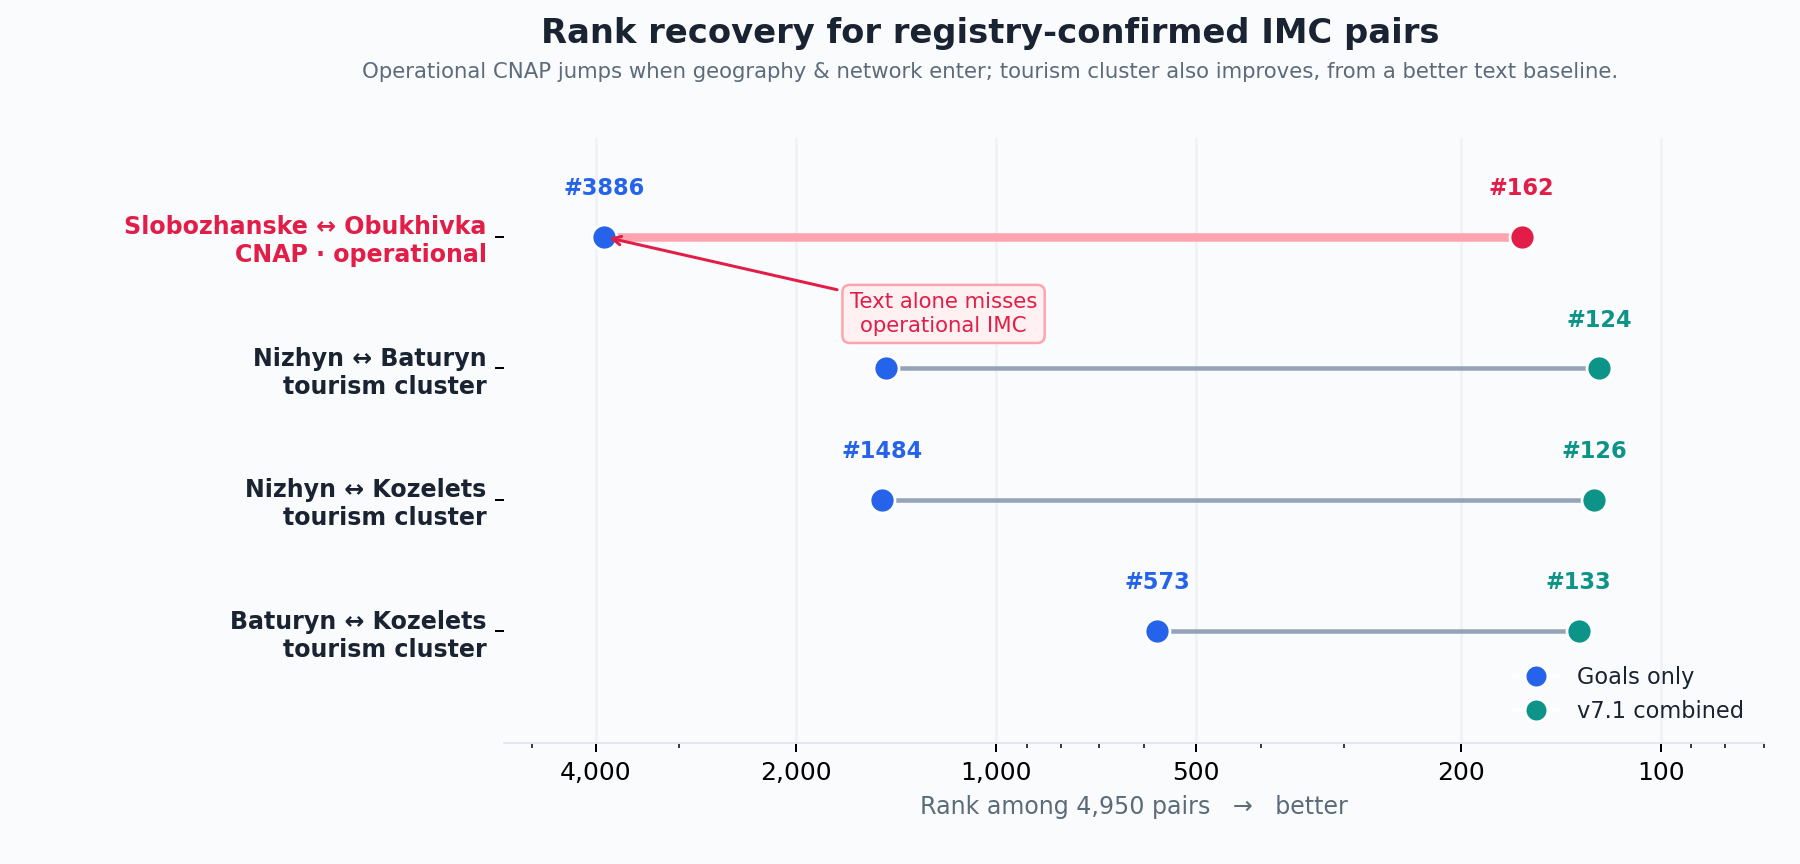
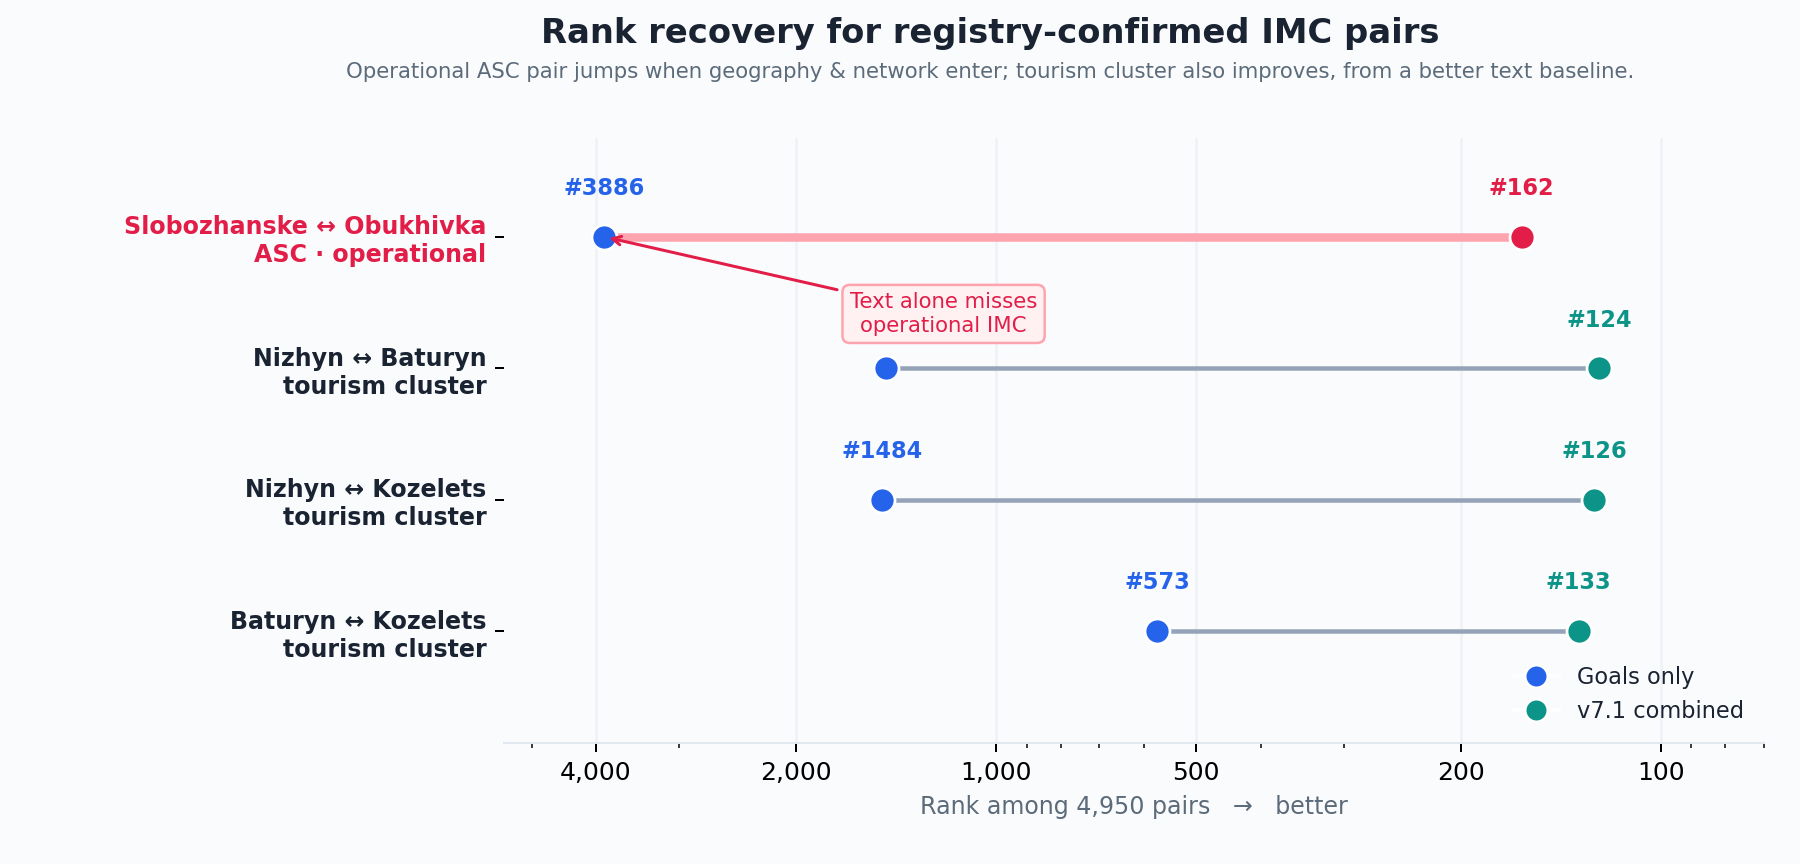
Align AIM-CC primary reply window to 21 days and refresh poster figures.

Changed region(s): [[0.1867, 0.0625, 0.9022, 0.0938], [0.1244, 0.2812, 0.28, 0.3125]]

diff --git a/internal/aim-cc-poster-copy.md b/internal/aim-cc-poster-copy.md
@@ -92,7 +92,7 @@ Partner discovery remains mostly **relational** (head-to-head contact, associati
 
 On **100** Goals-ready municipalities we rank **4,950** pairs (tracks: **455** thematic · **150** operational · **4,345** mixed). The product unit is an **IMC package hypothesis** (theme · form) plus 1–3 discovery-signal chips — not the blended score alone.
 
-**Known-pair recovery (curated N=12).** Operational CNAP **Slobozhanske↔Obukhivka**: goals-only **#3886** → v7.1 **#162** (package *ASC — delegation*). Tourism triangle **Nizhyn–Kozelets–Baturyn** recovers to ~**#124–#133** (curated *tourism — joint project*). Several newer registry-checked pairs land in the top ranks (e.g. Verkhovyna–Kuty **#1**, Halych–Dubivtsi **#2** on the Dniester Canyon tourism agreement #721). Absolute ranks shift as the edge set grows; the relative finding holds: geo/network recover operational deals that pure goals miss.
+**Known-pair recovery (curated N=12).** Operational ASC **Slobozhanske↔Obukhivka**: goals-only **#3886** → v7.1 **#162** (package *ASC — delegation*). Tourism triangle **Nizhyn–Kozelets–Baturyn** recovers to ~**#124–#133** (curated *tourism — joint project*). Several newer registry-checked pairs land in the top ranks (e.g. Verkhovyna–Kuty **#1**, Halych–Dubivtsi **#2** on the Dniester Canyon tourism agreement #721). Absolute ranks shift as the edge set grows; the relative finding holds: geo/network recover operational deals that pure goals miss.
 
 **Validation coverage.** Growing Goals into IMC-network hubs lifted IMC∩Goals from ~**10** to **246** pairs with strategy text on both sides; curated hard labels grew **4 → 12**.
 
@@ -110,7 +110,7 @@ On **100** Goals-ready municipalities we rank **4,950** pairs (tracks: **455** t
 
 **Theory / context.** OECD IMC ladders + Hooghe & Marks Type II networks; sticky/fragile heads under frozen elections.
 
-**Next — prospective test (draft prereg).** Arms: thematic vs operational vs control; treatment = **agreement package** recommendation. Primary: reply ≤14 days. Sampling frame (2026-08): **~100** Goals · **455** thematic · **150** operational — see `internal/aim-cc-field-experiment-prereg.md`.
+**Next — prospective experiment (draft prereg).** Arms: thematic vs operational vs control; treatment = **agreement package** recommendation. Primary: reply ≤21 days. Sampling frame (2026-08): **~100** Goals · **455** thematic · **150** operational — see `internal/aim-cc-field-experiment-prereg.md`.
 
 **Ask for mentors.** With IMC∩Goals in the hundreds and curated known at 12, how to move from recovery diagnostics to confirmatory validation / labelling? Design and ethics for cold outreach to municipalities? Active learning on institutional texts?
 
@@ -118,11 +118,13 @@ On **100** Goals-ready municipalities we rank **4,950** pairs (tracks: **455** t
 
 ## Conclusion
 
-Corpus methods can rank **IMC agreement hypotheses** and recover known clusters when geography/network enter; a single blended score must not be sold as “strategy match.” Product framing: **candidate agreement (theme · form)** justified by discovery signals. Corpus growth into the registry graph is as important as scoring tweaks.
+Partner search remains the hard step of Ukrainian IMC; strategies, geography, and the registered partnership network are usable **discovery signals**, not a substitute for trust between heads. Combining goal NLP with geo/network **recovers** registry-confirmed pairs that text alone misses — especially **operational** service sharing (e.g. shared ASC) — while text remains stronger for **thematic** clusters. The right product unit is an **agreement-package hypothesis** (who · about what · which legal form) backed by 1–3 signal chips, not a single blended “compatibility” score.
 
-**Next steps.** Keep growing PIN-neighbour Goals; field-test package recommendations; keep overlays separate in stakeholder tools.
+Growing Goals into IMC-network hubs mattered as much as formula tweaks: IMC∩Goals rose ~10→246; curated known labels now N=12. The pilot also ships an **open release** (CC BY 4.0) and a stakeholder map/interface so candidates can be inspected, not only ranked. Limits remain real: sparse national strategy coverage, template-text collisions, and partial circularity when network enters the score.
 
-**Data & code.** CC BY 4.0 releases + MIT pipeline · KATOTTG join · complements KSE Loc-Data-Hub · site: https://maxsemenchuk.github.io/hromada-strategy-collab/?lang=en
+**Next.** Pre-register and run a small field experiment: do package recommendations raise contact rates vs geo-only / control? Longer term: motivation-conditioned (agent-centric) recommendations per municipality, and clearer validation of package plausibility — not only rank recovery.
+
+**Data & code.** MIT pipeline · KATOTTG join with KSE Loc-Data-Hub · https://maxsemenchuk.github.io/hromada-strategy-collab/?lang=en
 
 ---
 

diff --git a/internal/aim-cc-field-experiment-prereg.md b/internal/aim-cc-field-experiment-prereg.md
@@ -4,7 +4,7 @@
 **Status:** Draft for AIM-CC 2026 consultation (not locked). Comments welcome before freeze.  
 **Contact:** Max Semenchuk · max.semenchuk@gmail.com · W3I Civic Tech Lab pilot  
 **Repo / data:** https://github.com/MaxSemenchuk/hromada-strategy-collab · CC BY 4.0 releases  
-**Date:** 2026-07-30 · **Version:** 0.2 (sampling frame refreshed 2026-08-04)
+**Date:** 2026-07-30 · **Version:** 0.3 (primary reply window → 21 days, 2026-08-04)
 
 ---
 
@@ -45,14 +45,14 @@ This is an **underpowered** pilot for small effects; primary goal is **feasibili
 
 ## 5. Intervention (identical logistics across arms)
 
-1. **Message (UA):** short email/Telegram — hypothesis language, not “AI matched you as perfect partners.” Include: (a) 2–3 quoted goal fragments motivating the pair, (b) one concrete joint-project sketch, (c) ask for 30-min intro call within 14 days.  
-2. **Timing:** send to both sides same day; one reminder at day 7 if no reply.  
+1. **Message (UA):** short email/Telegram — hypothesis language, not “AI matched you as perfect partners.” Include: (a) 2–3 quoted goal fragments motivating the pair, (b) one concrete joint-project sketch, (c) ask for 30-min intro call within 21 days.  
+2. **Timing:** send to both sides same day; one reminder at day 10 if no reply.  
 3. **Facilitation:** optional W3I-hosted call; same script checklist for all arms.  
 4. **Generation rule (pre-commit):** either (i) **fixed human template** filled from stored Goals snippets, or (ii) **LLM-drafted** then human-edited — choose **one** before launch; if both are of interest, nest as 2×2 only after N≥36 (Bessudnov consult).
 
 ## 6. Outcomes
 
-**Primary (pre-registered):** binary **replied within 14 days** by ≥1 side (email/TG).
+**Primary (pre-registered):** binary **replied within 21 days** by ≥1 side (email/TG).
 
 **Secondary (ordered ladder):**  
 1. both sides replied · 2. intro-call scheduled · 3. intro-call held · 4. agreed next step (doc exchange / joint concept) within 30 days · 5. (exploratory, 12 months) new entry in public МСС registry / KSE PIN edge.
